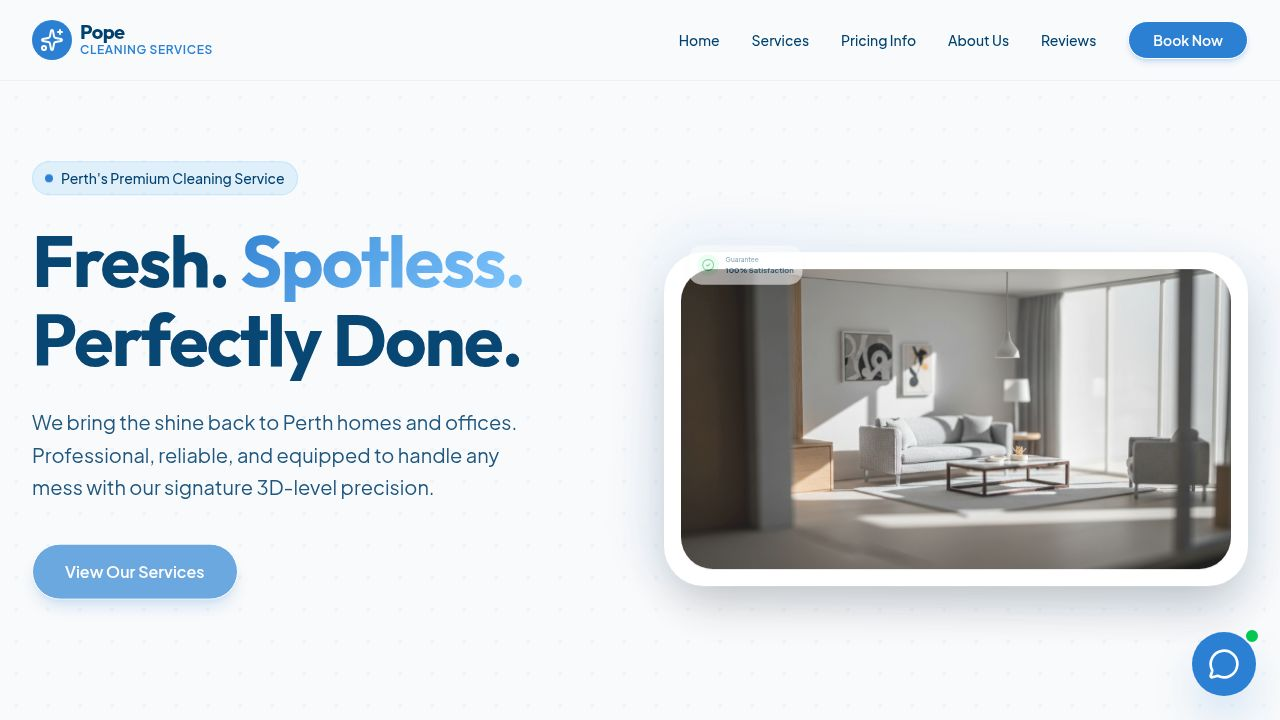
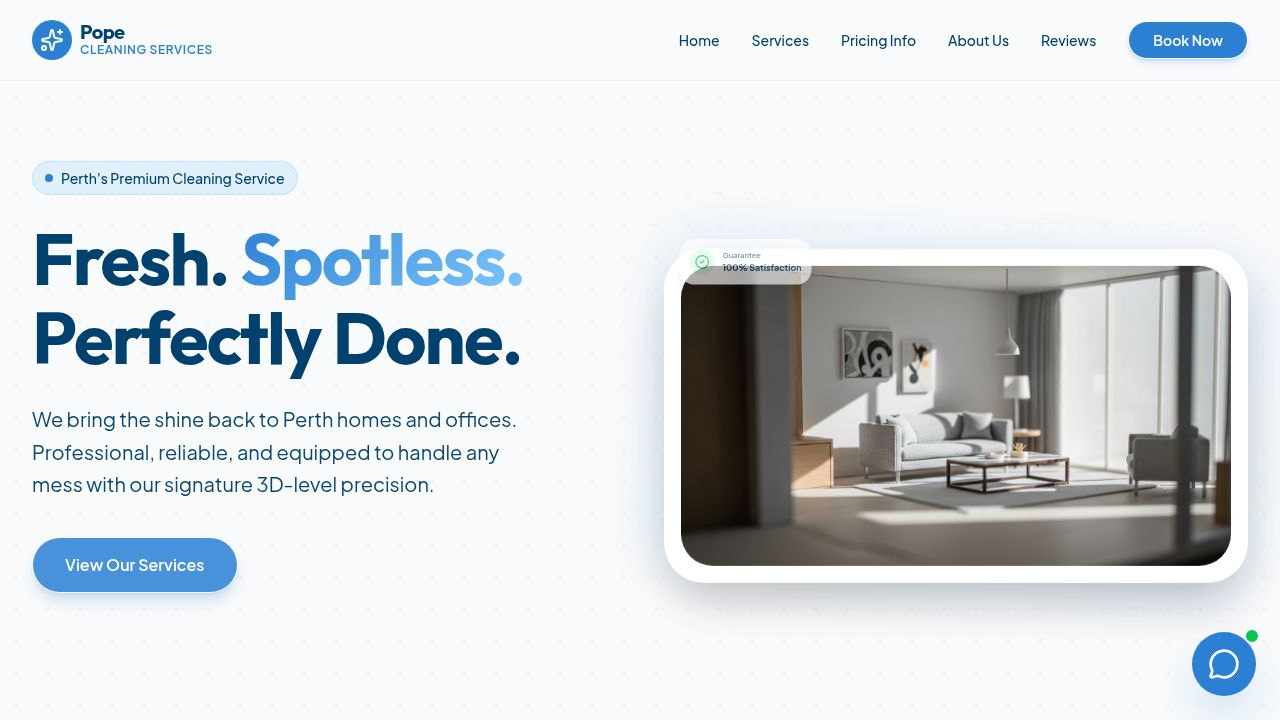
Update website layout by removing duplicate service sections
Remove the redundant "Our Services" block from the home page and adjust the services component.

Replit-Commit-Author: Agent
Replit-Commit-Session-Id: c0ed34d9-b494-4ab9-9953-af18c0d1b164
Replit-Commit-Checkpoint-Type: full_checkpoint
Replit-Commit-Event-Id: 03dae61b-f91d-4fab-8ce8-8506a0b8827e
Replit-Commit-Screenshot-Url: https://storage.googleapis.com/screenshot-production-us-central1/b344bfab-6f91-421f-94c6-48e3dd77e76f/c0ed34d9-b494-4ab9-9953-af18c0d1b164/1i5Gteq
Replit-Helium-Checkpoint-Created: true

diff --git a/client/src/components/home/services.tsx b/client/src/components/home/services.tsx
@@ -57,54 +57,42 @@ const services = [
 
 export function ServicesBlock() {
   return (
-    <>
-      <RevealOnScroll>
-        <div className="text-center max-w-3xl mx-auto mb-16">
-          <h2 className="font-bold tracking-wider text-primary uppercase mb-3 text-[18px]">Our Services</h2>
-          <h3 className="text-4xl md:text-5xl font-bold text-secondary mb-6">Expert cleaning for every surface</h3>
-          <p className="text-lg text-muted-foreground">
-            From cozy apartments to sprawling offices, our comprehensive range of services ensures no speck of dust is left behind.
-          </p>
-        </div>
-      </RevealOnScroll>
+    <div className="grid grid-cols-1 md:grid-cols-2 lg:grid-cols-3 gap-6">
+      {services.map((service, index) => (
+        <RevealOnScroll key={service.id} delay={index * 0.1}>
+          <Link href={service.link}>
+            <Card className="group relative overflow-hidden border border-border/50 rounded-3xl aspect-[4/3] cursor-pointer shadow-sm hover:shadow-xl transition-all duration-300">
+              {/* Background Image (Top 70%) */}
+              <div className="absolute inset-0 h-[70%] md:h-full overflow-hidden">
+                <img 
+                  src={service.image} 
+                  alt={service.alt} 
+                  className="w-full h-full object-cover transition-transform duration-500 group-hover:scale-105"
+                />
+                {/* Subtle dark overlay for text readability on mobile/base state */}
+                <div className="absolute inset-0 bg-gradient-to-t from-black/80 via-black/20 to-transparent opacity-80 md:opacity-50 group-hover:opacity-90 transition-opacity duration-300"></div>
+              </div>
 
-      <div className="grid grid-cols-1 md:grid-cols-2 lg:grid-cols-3 gap-6">
-        {services.map((service, index) => (
-          <RevealOnScroll key={service.id} delay={index * 0.1}>
-            <Link href={service.link}>
-              <Card className="group relative overflow-hidden border border-border/50 rounded-3xl aspect-[4/3] cursor-pointer shadow-sm hover:shadow-xl transition-all duration-300">
-                {/* Background Image (Top 70%) */}
-                <div className="absolute inset-0 h-[70%] md:h-full overflow-hidden">
-                  <img 
-                    src={service.image} 
-                    alt={service.alt} 
-                    className="w-full h-full object-cover transition-transform duration-500 group-hover:scale-105"
-                  />
-                  {/* Subtle dark overlay for text readability on mobile/base state */}
-                  <div className="absolute inset-0 bg-gradient-to-t from-black/80 via-black/20 to-transparent opacity-80 md:opacity-50 group-hover:opacity-90 transition-opacity duration-300"></div>
+              {/* Content Overlay */}
+              <div className="absolute inset-x-0 bottom-0 flex flex-col justify-end p-6 h-[50%] md:h-full transition-transform duration-300 md:translate-y-8 group-hover:translate-y-0">
+                <h3 className="text-2xl font-bold text-white mb-2">{service.title}</h3>
+                
+                {/* Short description (visible on hover for desktop, always visible on mobile) */}
+                <p className="text-white/90 text-sm leading-relaxed mb-4 md:opacity-0 md:group-hover:opacity-100 transition-opacity duration-300 delay-75">
+                  {service.shortDescription}
+                </p>
+                
+                {/* Learn More CTA */}
+                <div className="flex items-center text-accent font-semibold text-sm md:opacity-0 md:group-hover:opacity-100 transition-all duration-300 delay-100">
+                  <span>Learn more</span>
+                  <ArrowRight className="w-4 h-4 ml-2 group-hover:translate-x-1 transition-transform" />
                 </div>
-
-                {/* Content Overlay */}
-                <div className="absolute inset-x-0 bottom-0 flex flex-col justify-end p-6 h-[50%] md:h-full transition-transform duration-300 md:translate-y-8 group-hover:translate-y-0">
-                  <h3 className="text-2xl font-bold text-white mb-2">{service.title}</h3>
-                  
-                  {/* Short description (visible on hover for desktop, always visible on mobile) */}
-                  <p className="text-white/90 text-sm leading-relaxed mb-4 md:opacity-0 md:group-hover:opacity-100 transition-opacity duration-300 delay-75">
-                    {service.shortDescription}
-                  </p>
-                  
-                  {/* Learn More CTA */}
-                  <div className="flex items-center text-accent font-semibold text-sm md:opacity-0 md:group-hover:opacity-100 transition-all duration-300 delay-100">
-                    <span>Learn more</span>
-                    <ArrowRight className="w-4 h-4 ml-2 group-hover:translate-x-1 transition-transform" />
-                  </div>
-                </div>
-              </Card>
-            </Link>
-          </RevealOnScroll>
-        ))}
-      </div>
-    </>
+              </div>
+            </Card>
+          </Link>
+        </RevealOnScroll>
+      ))}
+    </div>
   );
 }
 
@@ -112,6 +100,15 @@ export function Services() {
   return (
     <section id="services" className="py-24 bg-background relative">
       <div className="container mx-auto px-4 sm:px-6 lg:px-8">
+        <RevealOnScroll>
+          <div className="text-center max-w-3xl mx-auto mb-16">
+            <h2 className="font-bold tracking-wider text-primary uppercase mb-3 text-[18px]">Our Services</h2>
+            <h3 className="text-4xl md:text-5xl font-bold text-secondary mb-6">Expert cleaning for every surface</h3>
+            <p className="text-lg text-muted-foreground">
+              From cozy apartments to sprawling offices, our comprehensive range of services ensures no speck of dust is left behind.
+            </p>
+          </div>
+        </RevealOnScroll>
         <ServicesBlock />
       </div>
     </section>

diff --git a/client/src/components/home/how-we-work.tsx b/client/src/components/home/how-we-work.tsx
@@ -1,9 +1,7 @@
-import { Sparkles, Home, Building2, SprayCan, FileText, Calculator, CalendarCheck, CheckCircle, ShieldCheck, ThumbsUp, MapPin, Leaf, Users } from "lucide-react";
-import { Card } from "@/components/ui/card";
+import { Sparkles, FileText, Calculator, CalendarCheck, CheckCircle, ShieldCheck, ThumbsUp, MapPin, Leaf, Users } from "lucide-react";
 import { Button } from "@/components/ui/button";
 import { Link } from "wouter";
 import { RevealOnScroll } from "@/components/ui/reveal-on-scroll";
-import { ServicesBlock } from "./services";
 
 export function HowWeWork() {
   return (
@@ -29,11 +27,6 @@ export function HowWeWork() {
               Pope Cleaning Services is a family-owned business based in Perth, WA. We serve both homes and businesses with regular cleaning, spring/deep cleans, vacate/end-of-lease, carpets & upholstery, tiles & grout, and office/commercial cleaning. We focus on high-quality, detailed cleaning rather than rushing through jobs.
             </p>
           </RevealOnScroll>
-        </div>
-
-        {/* Our Services Block */}
-        <div className="mb-24">
-          <ServicesBlock />
         </div>
 
         {/* Business Model Steps */}
